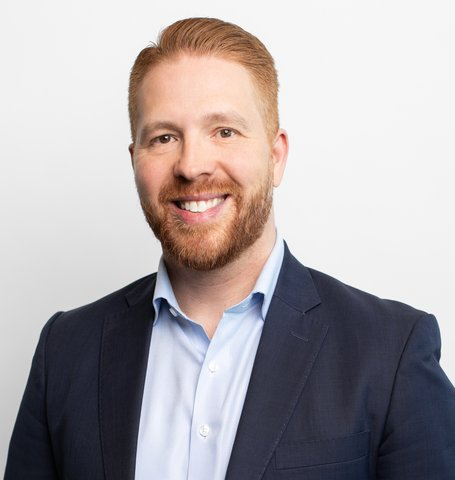
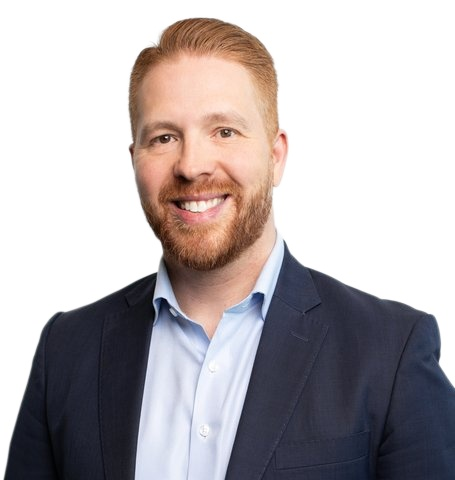
Footer SEC claim removal + about page cleanup + white-bg team photos (Mike Jun 24)
Removes the false 'SEC Registered Investment Advisor' claim from both footers; $500M→$110M; removes Brent; head-crop CSS fix; all team headshots on white incl. new Lateesha photo.

diff --git a/src/assets/css/main.css b/src/assets/css/main.css
@@ -7372,6 +7372,7 @@ html { font-size: 18px; }
   width: 100%;
   height: 100%;
   object-fit: cover;
+  object-position: 50% 22%;
   display: block;
 }
 .team-photo--placeholder {
